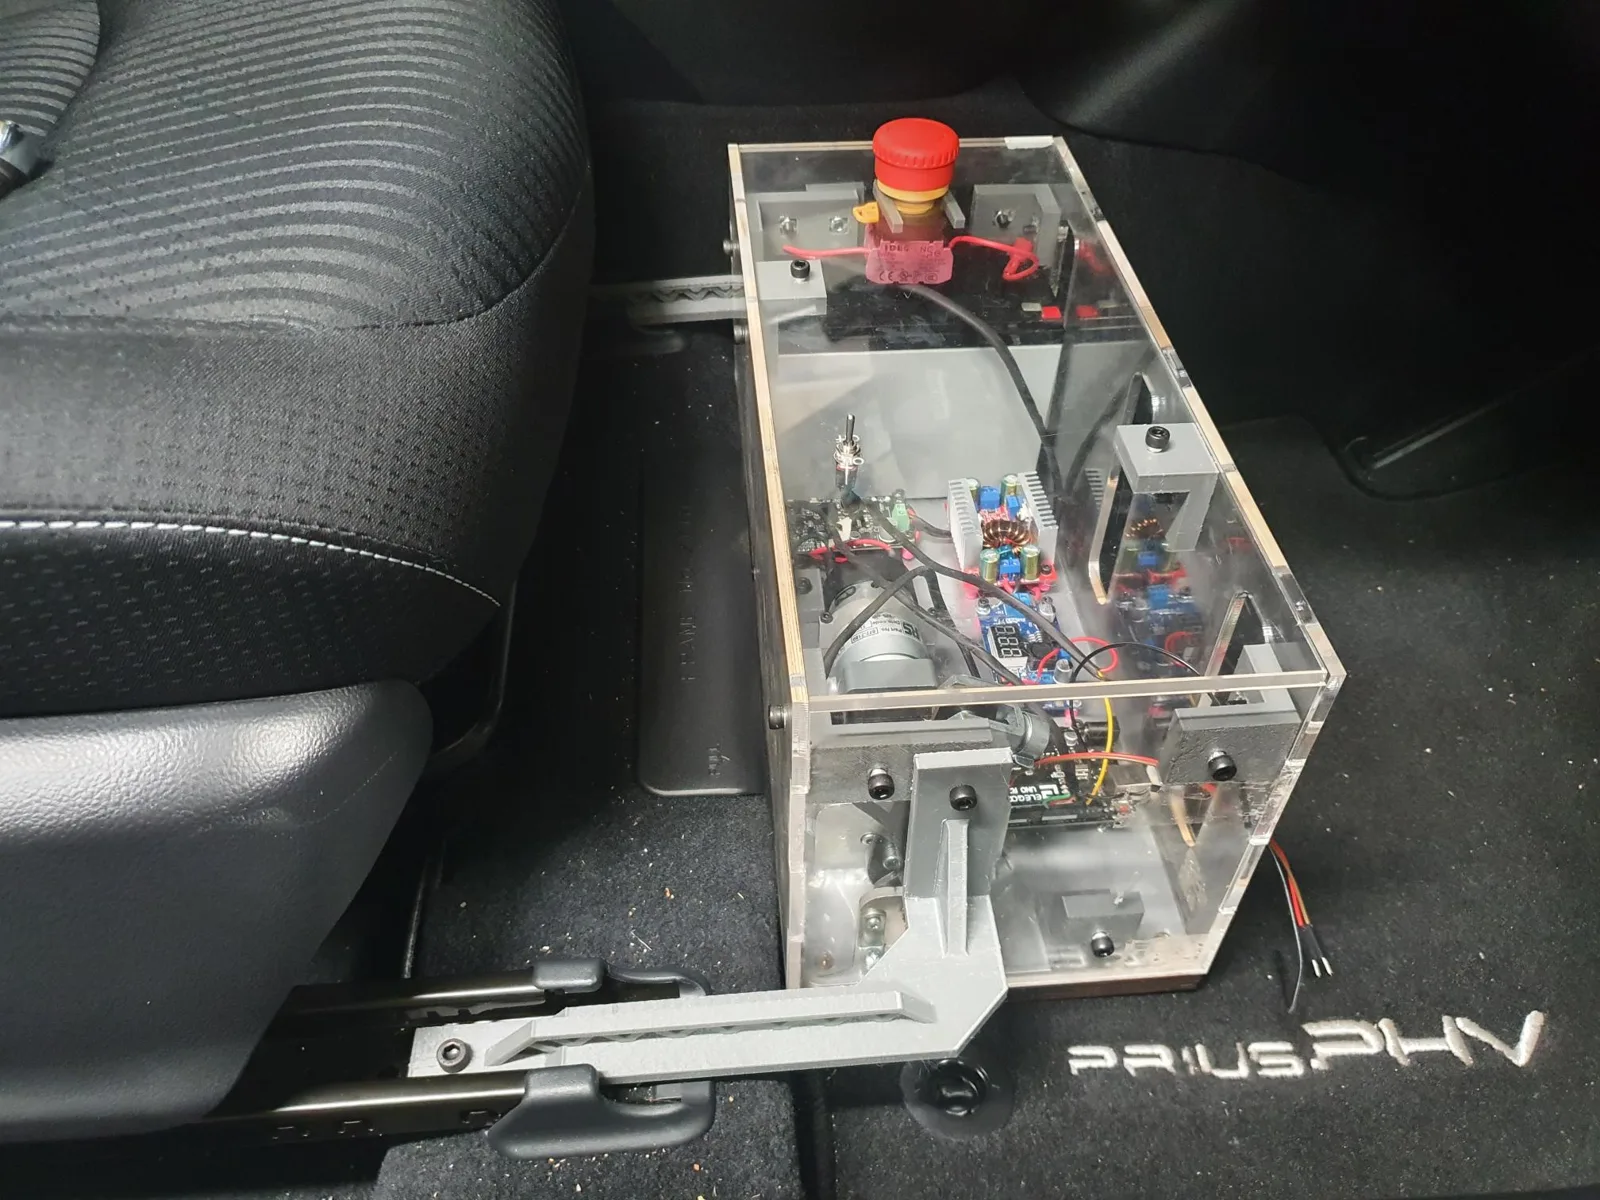
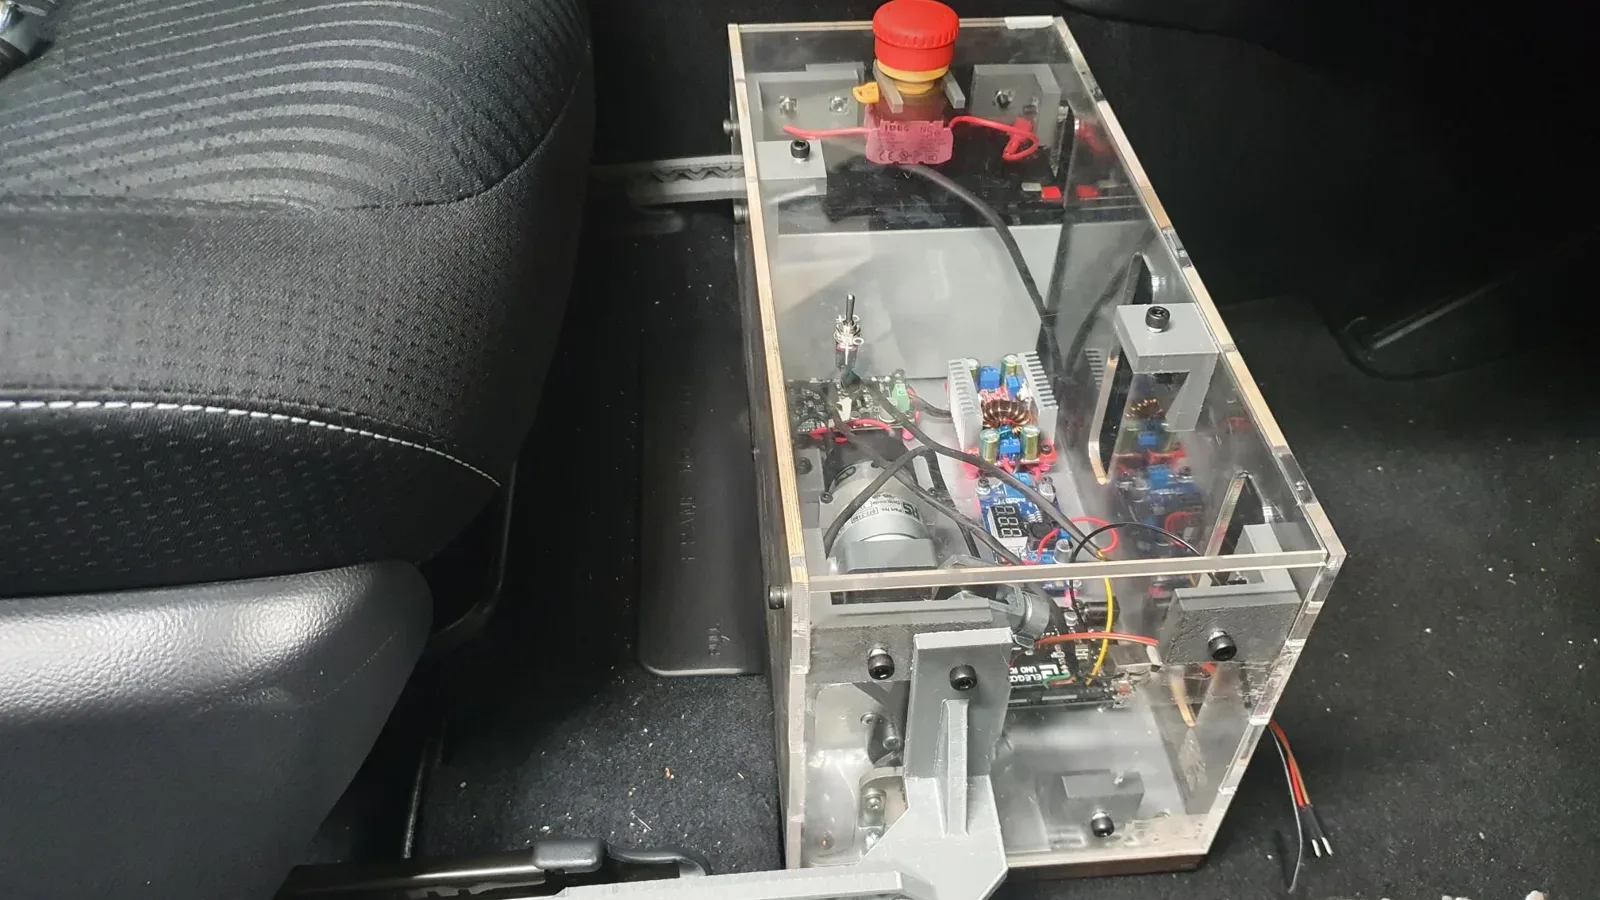
updates

diff --git a/pedal-actuation.html b/pedal-actuation.html
@@ -84,7 +84,7 @@
 
   <div class="media-row">
     <figure>
-      <img src="assets/img/pedal-car-install.webp" alt="The robot installed in the footwell of the test car, a Prius plug-in hybrid: the acrylic enclosure fixed to its baseplate with the output arm reaching down towards the pedal." loading="lazy" width="1600" height="1200">
+      <img src="assets/img/pedal-car-install.webp" alt="The robot installed in the footwell of the test car, a Prius plug-in hybrid: the acrylic enclosure fixed to its baseplate with the output arm reaching down towards the pedal." loading="lazy" width="1600" height="900">
       <figcaption>Installed in the test car, a Prius plug-in hybrid. The
         baseplate sits where the driver's feet would go.</figcaption>
     </figure>
